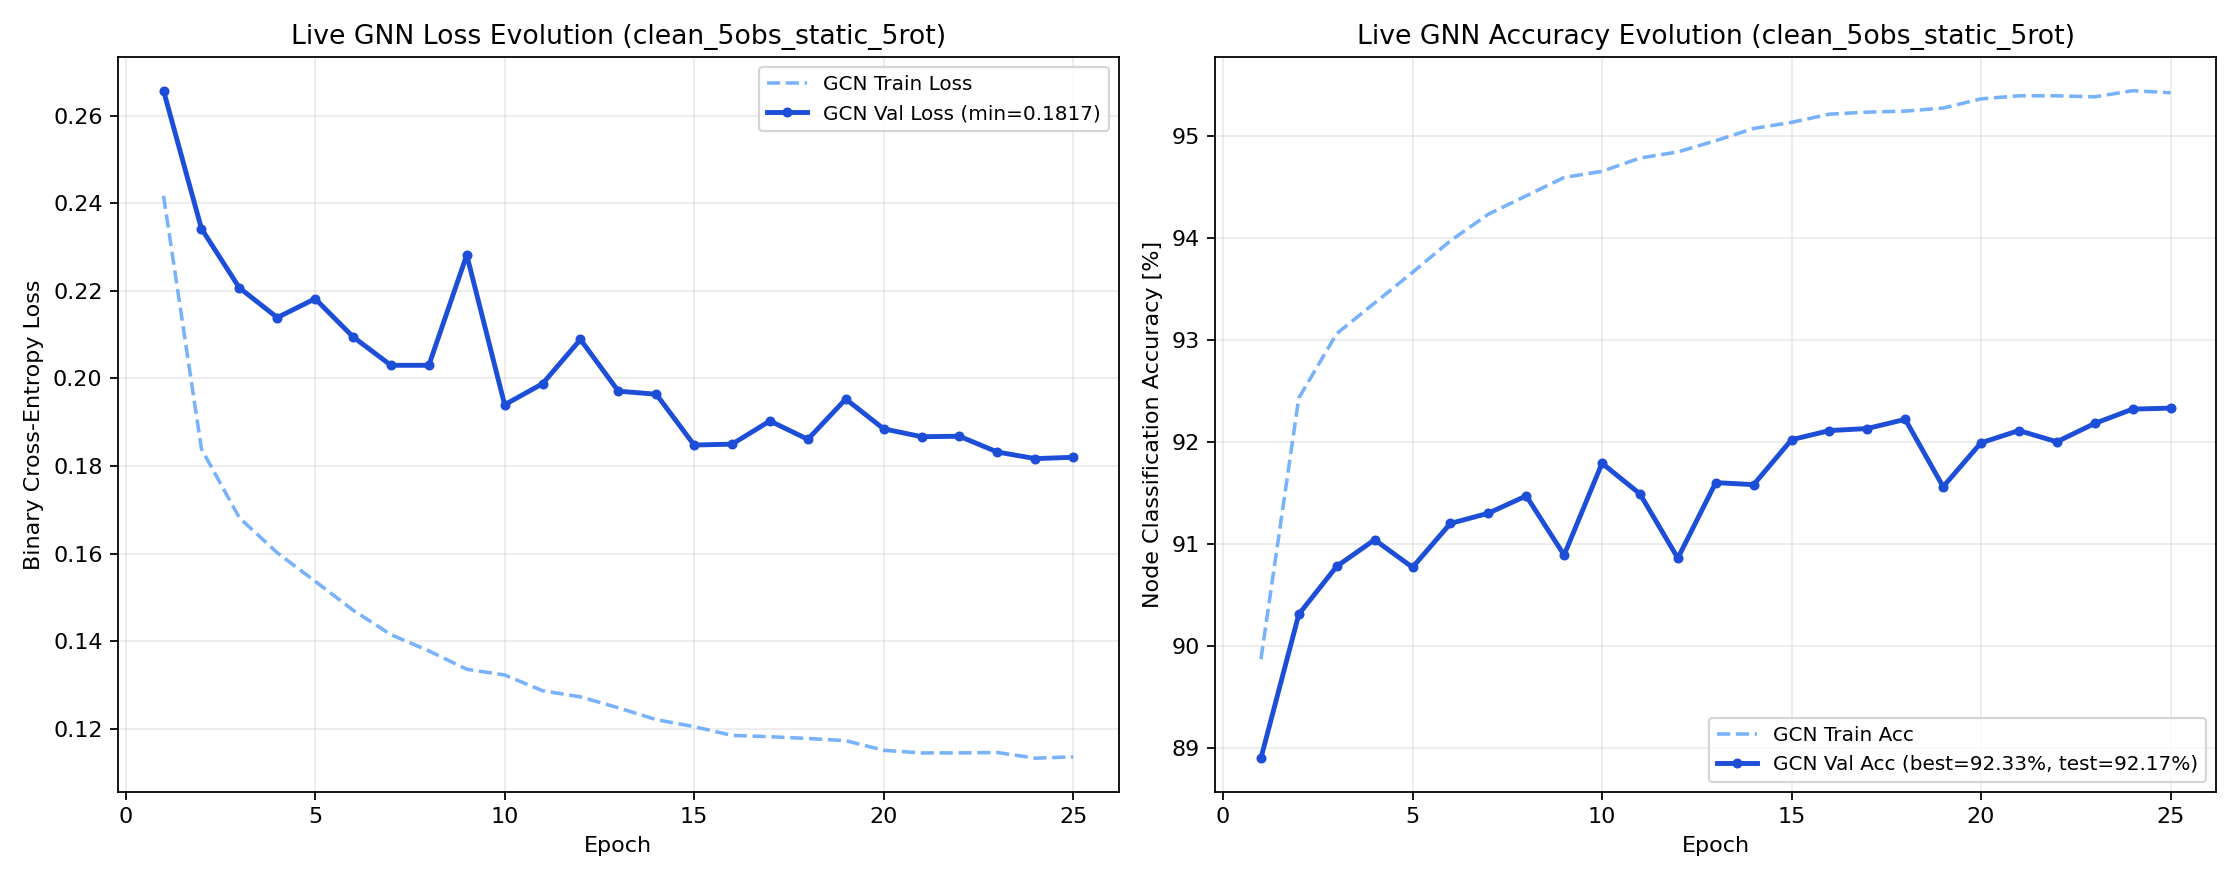
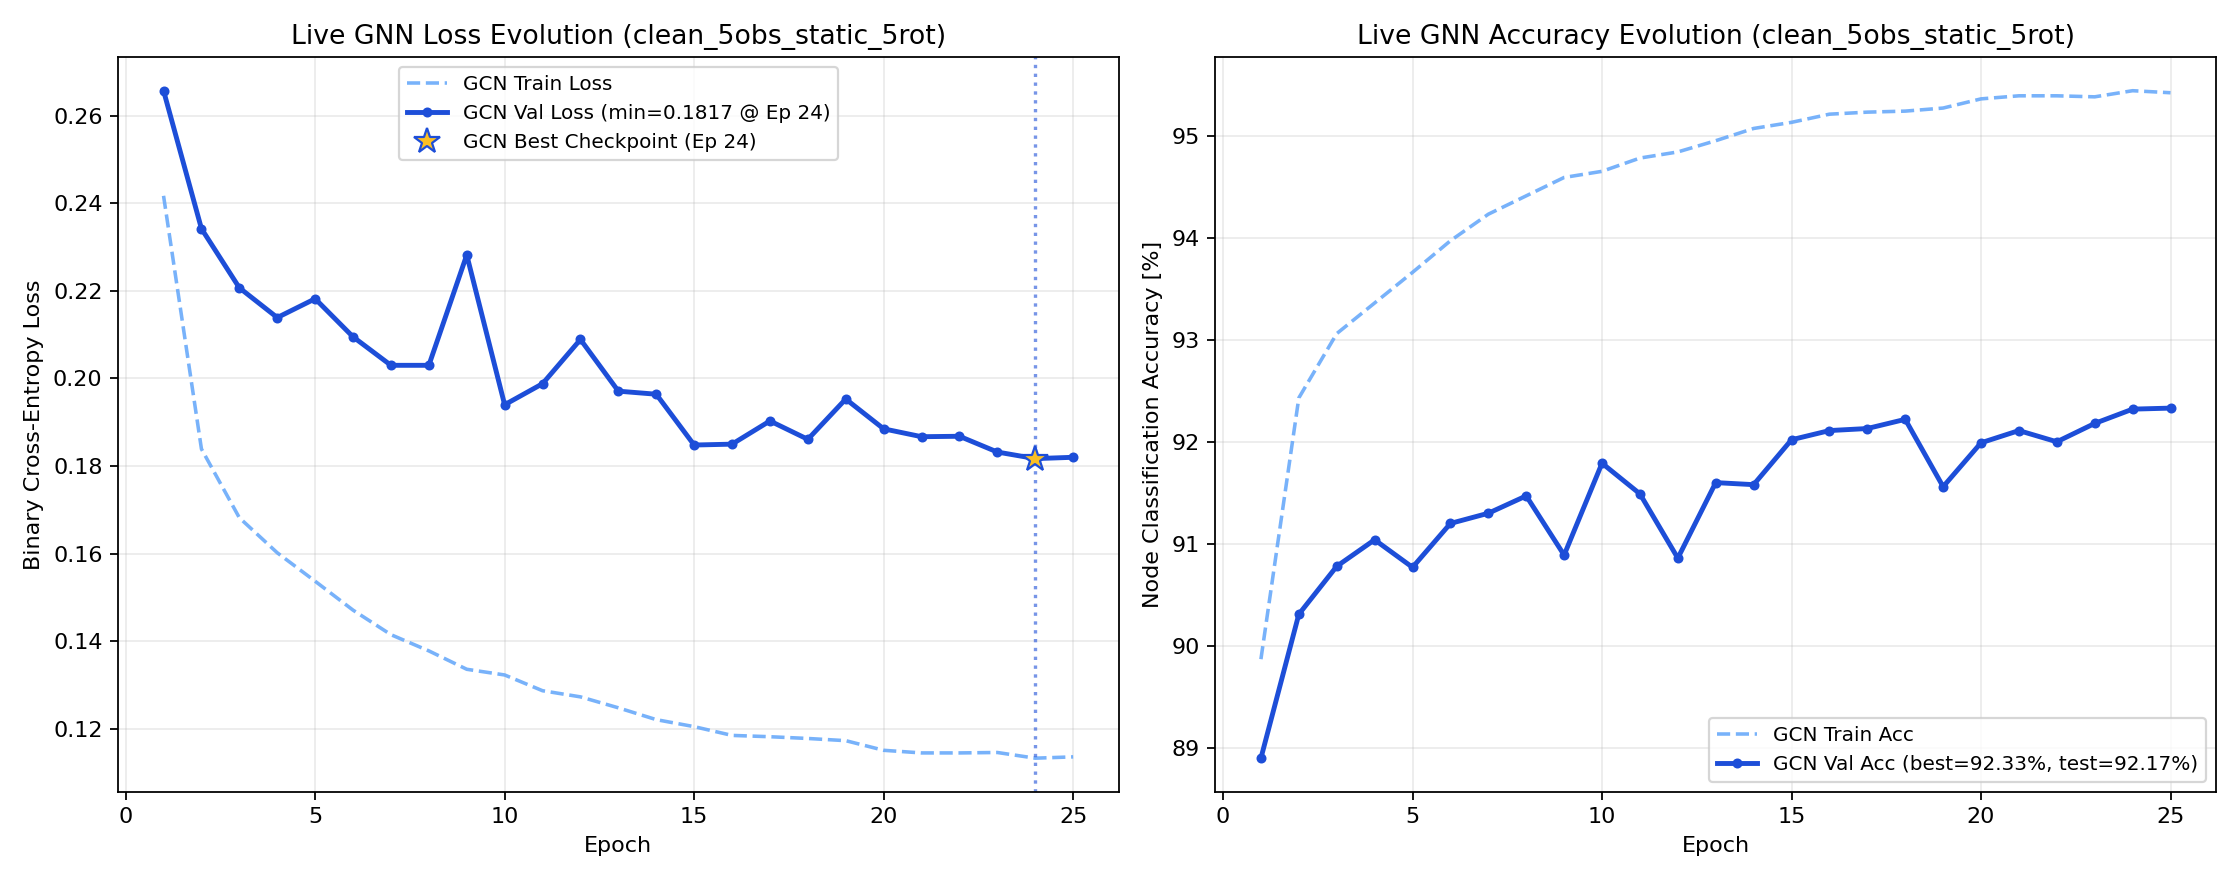
Update Study 2 live status and figures (2026-11-12 15:34)

Changed region(s): [[0.1875, 0.0614, 0.5, 0.1841]]

diff --git a/LIVE_STATUS.md b/LIVE_STATUS.md
@@ -1,30 +1,44 @@
 # Live Pipeline Status on Jed
 
 ```text
-[2026-11-12 15:33:14] Study 2 Pipeline Status on Jed
+[2026-11-12 15:34:36] Study 2 Pipeline Status on Jed
 - Step 1 (Plummer ICs): 81 / 81 ready
 - Step 2 (SWIFT Runs): 81 / 81 completed (101 snapshots)
 - Step 3 (Observables): Labels=81/81 | Clean=81/81 | GaiaNoisy=81/81
 - Step 4 (5D Graphs): Clean=81/81 | GaiaNoisy=81/81
 - Step 5/6 Live GNN Training Progress:
-  * clean_5obs/training_metrics_gat_clean.log: Ep 001 | Train 0.4300 (79.88%) | Val 0.3430 (82.80%, Best=82.80%) | Test=In progress
+  * clean_5obs/training_metrics_gat_clean.log: Ep 001 | Train 0.4300 (79.88%) | Val 0.3430 (82.80%, Best=82.80%) | CoreFNR: 40.95% (min=40.95%) | Test=In progress
   * clean_5obs/training_metrics_gcn_clean.log: Ep 025 | Train 0.1136 (95.42%) | Val 0.1820 (92.33%, Best=92.33%) | Test=92.17%
   * legacy/clean_5obs_static_5rot/training_metrics_gcn_clean.log: Ep 025 | Train 0.1136 (95.42%) | Val 0.1820 (92.33%, Best=92.33%) | Test=92.17%
+- Saved Model Checkpoints (.pth): 8 mirrored in GNN-jed/trained_models/study2/weights/
 
 SLURM Queue:
 JOBID  PARTITION                   NAME   ST       TIME  NODES NODELIST(REASON)
       41146836   academic Study2_Step7_GCNStocha   PD       0:00      2 (Dependency)
 41146835_[0-4%   academic      Study2_Step6_4Obs   PD       0:00      2 (Dependency)
-      41146834   academic   Study2_Step5_Train81    R      45:41      2 jst[317,320]
+      41146834   academic   Study2_Step5_Train81    R      48:23      2 jst[317,320]
 ```
 
 ## Live Neural Network Training Metrics
 
-| Experiment | Architecture | Latest Epoch | Train Loss | Train Acc | Val Loss | Val Acc | Best Val Acc | Test Acc | Test F1 |
-| :--- | :---: | :---: | :---: | :---: | :---: | :---: | :---: | :---: | :---: |
-| `clean_5obs` | **GAT** | 1 | 0.4300 | 79.88% | 0.3430 | 82.80% | **82.80%** | **In progress** | - |
-| `clean_5obs` | **GCN** | 25 | 0.1136 | 95.42% | 0.1820 | 92.33% | **92.33%** | **92.17%** | 0.8886 |
-| `clean_5obs_static_5rot` | **GCN** | 25 | 0.1136 | 95.42% | 0.1820 | 92.33% | **92.33%** | **92.17%** | 0.8886 |
+| Experiment | Architecture | Latest Epoch | Train Loss | Train Acc | Val Loss | Val Acc | Best Val Acc | Core FNR | Test Acc | Test F1 |
+| :--- | :---: | :---: | :---: | :---: | :---: | :---: | :---: | :---: | :---: | :---: |
+| `clean_5obs` | **GAT** | 1 | 0.4300 | 79.88% | 0.3430 | 82.80% | **82.80%** | 40.95% (val min) | **In progress** | - |
+| `clean_5obs` | **GCN** | 25 | 0.1136 | 95.42% | 0.1820 | 92.33% | **92.33%** | - | **92.17%** | 0.8886 |
+| `clean_5obs_static_5rot` | **GCN** | 25 | 0.1136 | 95.42% | 0.1820 | 92.33% | **92.33%** | - | **92.17%** | 0.8886 |
+
+## Saved Model Weights (`.pth` Checkpoints)
+
+| Checkpoint | Size | Experiment Path | Central Archive Mirror |
+| :--- | :---: | :--- | :--- |
+| `best_gat_clean.pth` | 361.2 KB | `GNN-jed/trained_models/study2/clean_5obs/best_gat_clean.pth` | `GNN-jed/trained_models/study2/weights/best_gat_clean.pth` |
+| `best_gat_clean_ep18_backup.pth` | 361.2 KB | `GNN-jed/trained_models/study2/clean_5obs/best_gat_clean_ep18_backup.pth` | `GNN-jed/trained_models/study2/weights/best_gat_clean_ep18_backup.pth` |
+| `best_gcn_clean.pth` | 120.0 KB | `GNN-jed/trained_models/study2/clean_5obs/best_gcn_clean.pth` | `GNN-jed/trained_models/study2/weights/best_gcn_clean.pth` |
+| `best_gat_clean_ep18_backup.pth` | 361.2 KB | `GNN-jed/trained_models/study2/legacy/clean_5obs_static_5rot/best_gat_clean_ep18_backup.pth` | `GNN-jed/trained_models/study2/weights/best_gat_clean_ep18_backup.pth` |
+| `best_gcn_clean.pth` | 120.0 KB | `GNN-jed/trained_models/study2/legacy/clean_5obs_static_5rot/best_gcn_clean.pth` | `GNN-jed/trained_models/study2/weights/best_gcn_clean.pth` |
+| `best_gat_clean.pth` | 361.2 KB | `GNN-jed/trained_models/study2/legacy/weights/best_gat_clean.pth` | `GNN-jed/trained_models/study2/weights/best_gat_clean.pth` |
+| `best_gat_clean_ep18_backup.pth` | 361.2 KB | `GNN-jed/trained_models/study2/legacy/weights/best_gat_clean_ep18_backup.pth` | `GNN-jed/trained_models/study2/weights/best_gat_clean_ep18_backup.pth` |
+| `best_gcn_clean.pth` | 120.0 KB | `GNN-jed/trained_models/study2/legacy/weights/best_gcn_clean.pth` | `GNN-jed/trained_models/study2/weights/best_gcn_clean.pth` |
 
 ## Real-Time GNN Learning Curves (Loss & Accuracy Evolution)
 
